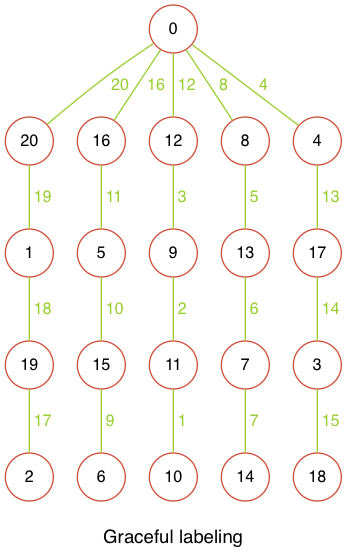
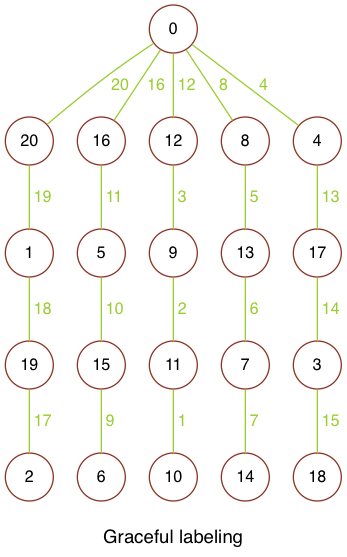
Update color scheme

diff --git a/trees.rb b/trees.rb
@@ -58,9 +58,7 @@ class Tree
 
   def graphviz_to_render(graph, num)
     graph.node[
-      color: :tomato3,
-      # fontcolor: :white,
-      # style: :filled,
+      color: :tomato4,
       width: 0.5,
       height: 0.5,
       fontname: "Helvetica",

diff --git a/render_tree_images.rb b/render_tree_images.rb
@@ -5,7 +5,7 @@ require_relative 'binary_tree.rb'
 Tree.render_trees(5)
 
 btree = BinaryTree.build(depth: 3)
-btree.render
+star  = SymmetricStar.build(legs: 5, depth: 4)
 
-star = SymmetricStar.build(legs: 5, depth: 4)
+btree.render
 star.render
